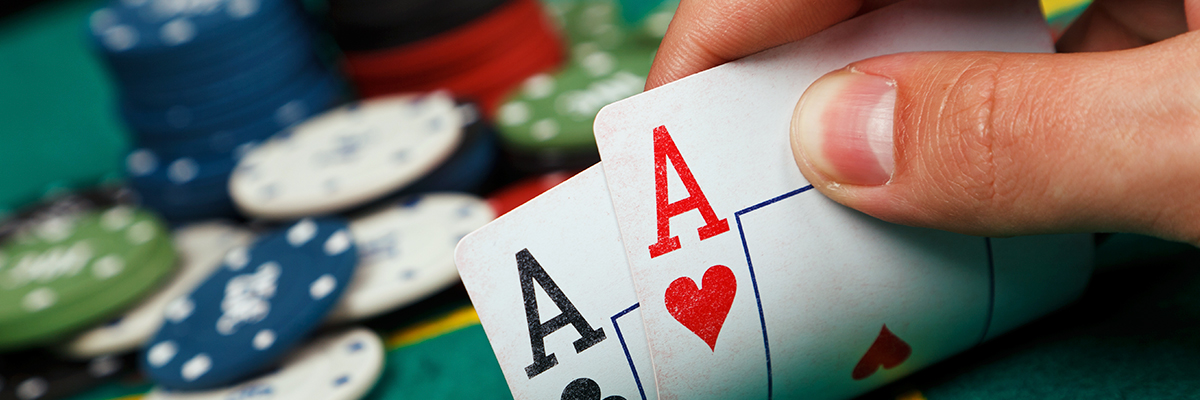
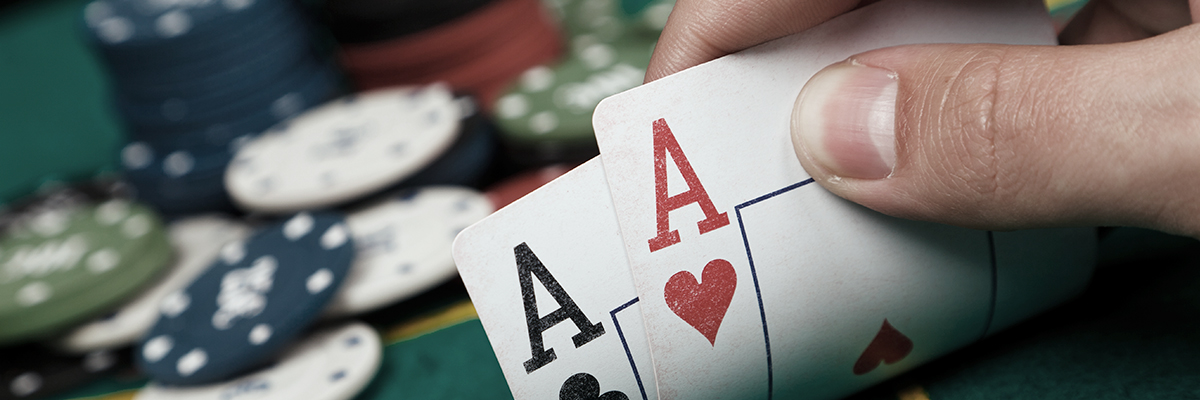
Replaces all images with desaturated images; Updates text on index.html, rvpark.html, sportsman.html, poker.html, and christmas.html

diff --git a/rvpark.html b/rvpark.html
@@ -83,12 +83,7 @@
 	</div> <!-- END contain-to-grid -->
 	<!-- END NAVIGATION -->
     
-<!-- Event Section -->
-		<div >
-			<div class="jumbotron"> 
-		                <div class="item "><img src="img/header-sports.jpg"></div>
-			</div>
-		</div>
+
 <!---------- MAIN SECTION ---------->    
            
 
@@ -96,60 +91,59 @@
  
 			 <div class="large-4 medium-4 columns sidebar"> 
 				  	<div class="panel">
-						<h3>February 13 - 15, 2015</h3>
-						<h4>Show Hours</h4>
+						<h4>Helpful Links</h4>
 							<ul>
-								<li>Friday Noon - 9 p.m.</li>
-								<li>Saturday 10 a.m. - 8 p.m.</li>
-								<li>Sunday 10 a.m. - 5 p.m.</li>
+								<li><a href="img/forms/facilities_rates.pdf">Rental Rates</a></li>
+								<li><a href="img/forms/dcfire_regulations.pdf">Fire Regulations</a></li>
+								<li><a href="img/forms/approved_caters_concessionaires.pdf">Approved Caterers & Concessionaires</a></li>
+								<li><a href="img/forms/caterers_concessionaires.pdf">Concessionaire Application</a></li>
 							</ul>
 						<hr>
-				        <h4>Admission:</h4>
-			        	<ul>
-			        		<li>Adults - $6.00</li>
-			        		<li>Kids - 12 -6 $1.00</li>
-			        		<li><em>$2.00 off Bi-Mart Coupon Good FRIDAY & SUNDAY ONLY.</em></li>
-			        	</ul>
-						<hr>
-						<h4>Sponsor:</h4>
-						<img src="img/sponsor-selco.png">
+						<h4>Contact Us</h4>
+						<p>If you're interested in renting a site, please email<a href="mailto:clkeith@co.douglas.or.us"> clkeith@co.douglas.or.us</a> or call 541 440-4394.</p>
 				  	</div>
+				  	
+				  	<a href="#" data-reveal-id="myModal"><img style="margin: 1em 0;" src="img/map-thumb.jpg" alt="map"></a>
+					<div id="myModal" class="reveal-modal medium" data-reveal>
+						<img src="img/fullmap.jpg">
+						<a class="close-reveal-modal">&#215;</a>
+					</div>
+					
 			  	</div>  
 		
 			  <div class="large-8 medium-8 columns main-copy"> 
 		
-			  		<h1>Sportsmen's Outdoor Recreation Show</h1>
-			        <p>The annual Sportsmen’s & Outdoor Recreation Show hosts hundreds of exhibits representing fishing, hunting, camping, boating, RVing, ATVing, cycling, kayaking, hiking, climbing, scuba diving, and their supporting advocacy groups and governmental agencies. </p>
-					<p>Each year there are new and exciting exhibits and acts. These are joined by the perennial favorites: the annual Head & Horns Competition, the Northwest Tour of Big
-					Game Exhibit, the Giant Fish Tank, the Live Trout Pond, the Shooting Gallery and Archery Range for kids and much more!</p>
-				     <hr>
-				     <p>
-				        <br> We've also got an impressive list of experts who will be making presentations on the hottest hunting and fishing topics each day. 
-				        <br><br> <a href="http://www.exposureshows.com/exposure_shows/Look_Whos_Talking_Roseburg.html" class="small button">Speaker Schedule</a>
-				     </p>
+			  		<h1>Facilities: RV Park</h1>
+			  		<dl class="accordion" data-accordion>
+					  <dd class="accordion-navigation">
+					    <a href="#panel1"><strong>Rental Info</strong></a>
+					    <div id="panel1" class="content active">
+							<p>Douglas County Fairgrounds RV Park is open year-round. Spaces are always available with overflow camping spaces if needed <em>(excluding Fair Week in August).</em>					  </p>
+							<p>Rate with power: $25 per night (includes 1% State Lodging Tax).</p>
+								<ul>
+									<li>First Come First Served (no reservations).			 </li>      
+									<li>43 sites with electrical & water hookups			 </li>      
+									<li>7 sites with electrical, water and sewer hookups	 </li>      
+									<li>Maximum 14 day stay - RV, Campers					 </li>      
+									<li>Showers, Restrooms, Dump Station available on grounds</li>
+								</ul>	  
+					  </dd>
+					  <dd class="accordion-navigation">
+					    <a href="#panel2"><strong>On Grounds Camping</strong></a>
+					    <div id="panel2" class="content">
+							<p>Rate without power $15.15 per night (includes 1% State Lodging Tax)					 </p>
+							<p>On grounds camping may be permitted in conjunction with an event.					 </p>
+							<p>Prior arrangements must be made before contract is issued.							 </p>
+							<p>There are a limited number of areas available for on-grounds camping with power.		 </p>
+							<p>All on-grounds campers must be sensitive to other events taking place at the facility.</p>
+							<p>It is the responsibility of each show to collect for on-grounds campers connected with the event. The show will be billed for all on-grounds campers at the end of the event.</p>
+					    </div>
+					  </dd>
+					</dl>
 			  </div>
  
       
-      <div class="large-12 medium-12 columns vendor">        
-      	<div class="panel">
-           <h3>Vendor Information</h3>
-           <br>     
-           <div class="row">
-           		<div class="large-6 medium-6 columns"> 
-           			<h4>Vendor Application</h4>
-           			<p><i class="fa-file-pdf-o"></i><a href="forms/sors_app.pdf">Click Here</a> to download the 2015 Application.
-           			<br><a href="forms/sors_vendor_info.pdf">Click Here</a> for more info on how to be a vendor.
-           			<br><br><em>New Applicants - We are currently working on the 2015 Show. Return your completed application ASAP!</em></p>
-           		</div>
-           		<div class="large-6 medium-6 columns"> 
-           			<h4> Contact Us</h4>
-           			<p>Please send an email to <a href="mailto:bsmayber@co.douglas.or.us">bsmayber@co.douglas.or.us</a> for more information. Or call Brenda at 541-440-4396. </p>
-           		</div>
-           </div>
-
-      	</div>
-      </div>  
-      
+            
    </div> <!-- END MAIN ROW -->
 
    <div class="sponsors">

diff --git a/index.html b/index.html
@@ -134,14 +134,16 @@
             <div class="hero ">
 	            <h1>Welcome to the Douglas County Fairgrounds</h1>
 	            
-					<p>The Douglas County Fairgrounds Complex &amp; Speedway consists of 74 acres on the beautiful South Umpqua River in scenic Roseburg, Oregon. It is truly a year-round multi-purpose facility that hosts an average of 1,400-1,500 event days annually. Our facilities are capable of accommodating just about any type of event activity imaginable.
-The Douglas County Fairgrounds Complex is one of the premier multi-purpose event facilities in the Northwest.</p>
+<p>The Douglas County Fairgrounds Complex consists of 74 acres on the beautiful South Umpqua River in scenic Roseburg, Oregon. A year-round multi-purpose facility that hosts an average of 1,500 event days annually. Our facilities are capable of accommodating just about any type of event activity imaginable.</p>
+<p>We have 80,000 square feet of exhibit and meeting space, for conventions, conferences, trade shows, banquets, motor sports, rodeos, weddings, equestrian events and a host of other special event functions.</p>
+<p>The Fairgrounds is a full service complex offering assistance in event planning, food and beverage services and equipment needs for your event... whether you are expecting fifty people or thousands, our facilities and staff look forward to making your next event a success!</p>
+
        
 		        <div class="row ">
 				          <div class="large-6 medium-6 columns ">
 					          	<div class="panel">
 						              <h2>Planning an Event?</h2>
-						              <p>We are a full service complex offering assistance in event planning, food & beverage services and equipment needs for your event. Whether it is a large expo or a small meeting, we have what you need to make your next event a success!</p> <br>
+						              <p>We are a full service complex offering assistance in event planning, catering services and equipment needs for your event. Whether it is a large expo or a small meeting, we have what you need to make your next event a success!</p> <br>
 									  <a href="#" class="small button">Facilities Services</a>      
 					          	</div>
 				          </div>

diff --git a/poker.html b/poker.html
@@ -113,7 +113,7 @@
 			  		<h1>Poker Craze</h1>
 			  		<h2>Texas Hold'em Poker Tournament</h2>
 			        <p style="color:red;">EARLY BIRD Deadline ends February 16th @ 5pm</p>
-					<p>Players and guests welcome at our Texas Hold'em Poker Tournament, a fundraiser to help fund some much needed facility repairs of the Floral Building and Dorms. We will also be looking for raffle items to be given away throughout the night. It's going to be a great evening with good food, prizes and fun for all!</p>
+					<p>The Douglas County Fairgrounds annual Poker Craze <em>Texas Hold’em Poker Tournament</em> is held each February as a fundraiser used for facility maintenance. It’s always a great evening with good food, top prizes and fun for all in attendance. The tournament is conducted by a professional tournament operator “Team Casino” and a number of prizes will be awarded, including a TOP grand prize for the poker champion.</p>
 					<p><em>Please consider becoming a sponsor of this fundraiser and partner to help make this event a success. Call 541-440-4396 for sponsorship information.</em></p>
 			  </div>
  

diff --git a/christmas.html b/christmas.html
@@ -112,7 +112,7 @@
 			  <div class="large-8 medium-8 columns main-copy"> 
 		
 			  		<h1>Christmas Craft Fair</h1>
-			        <p>Get all your Christmas shopping done at the fairgrounds this year! This year we have over 300 booths filled with unique, handcrafted gifts - you'll find something for everyone on your list!</p>
+			        <p>The Douglas County Christmas Fair is the largest event of its type to occur in Douglas County each year. It is the largest and most popular Christmas Fair in Southern Oregon. Approximately 300 exhibitors participate displaying a wide variety of hand crafted items, such as clothing, home decor, baked goods, spices, gourmet coffees, wood crafts, metal sculptures, art decor, and numerous other unique products.</p>
 			        <h3>Santa's Hours</h3>
 			        <p>Friday: 1:00 p.m. - 7:00 p.m.
 					<br>
